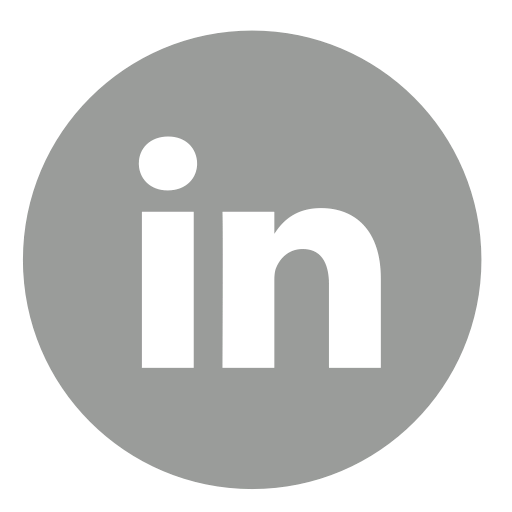
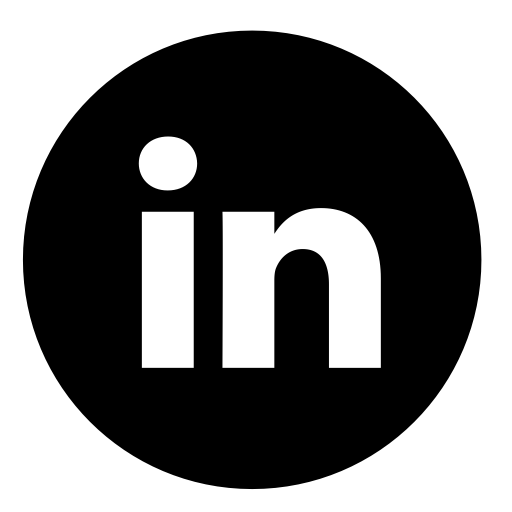
formatted png links to black

diff --git a/public/index.html b/public/index.html
@@ -42,15 +42,23 @@
 		<footer class="page-footer lime lighten-4">
           <div class="container">
             <div class="row">
-              <div class="col l6 s12">
+              <div class="col l6 m6 s6">
                 <h5 class="black-text">CodingLotus<img class="lotus" src="https://d30y9cdsu7xlg0.cloudfront.net/png/108170-200.png" height="23px" width="23px"></h5>
                 <p class="black-text text-lighten-4">A novice's journey through computer programming.</p>
+              </div>
+              <div class="col l3 offset-l3 s6  m6 ">
+                <ul class="aboutIcons">
+                <a href="https://github.com/lauxx"><img src="img/githubblack.png" height="50px" width="50px"></a>
+            	<a href="http://www.linkedin.com/in/laurennichols11"><img src="img/linkedin.png" height="50px" width="50px"></a>
+            	<a href="https://twitter.com/coding_lotus"><img src="img/twitterblack.png" height="50px" width="50px"></a>	
+                </ul>
               </div>
             </div>
           </div>
           <div class="footer-copyright lime lighten-3">
             <div class="container black-text">
            		 © Copyright CodingLotus 2016
+           	 
            	<a class="black-text right" ui-sref="contact">Contact</a>
 			<a class="black-text right" ui-sref="about">About</a>
 			<a class="black-text right" ui-sref="home">Home</a>

diff --git a/public/about.html b/public/about.html
@@ -15,10 +15,3 @@
       </div>
 </div>
 
-<div class="container aboutIcons">
-  <div class="row">
-        <img src="img/github.png" height="70px" width="70px">
-        <img src="img/linkedin.png" height="70px" width="70px">
-        <img src="img/twitter.png" height="70px" width="70px">
-  </div>      
-</div>

diff --git a/public/main.css b/public/main.css
@@ -32,8 +32,7 @@ a{
 }
 .aboutIcons{
 	position: relative;
-	margin-top: 10%;
-	margin-left: 41%;
+	margin-left: 5%;
 }
 
 
